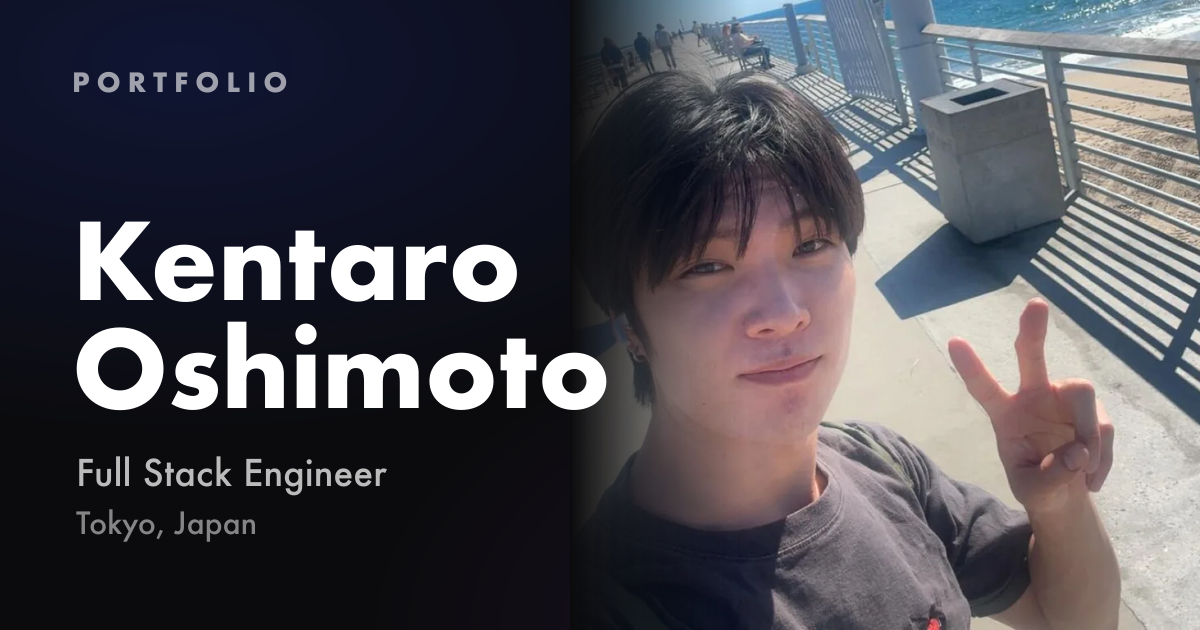
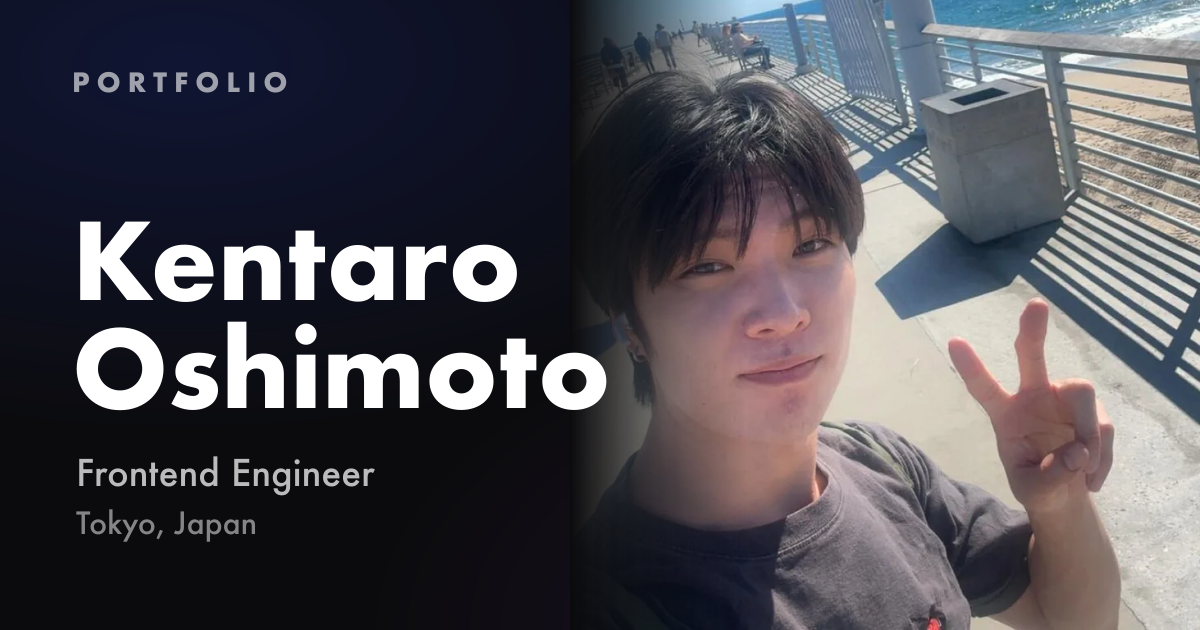
content: position as a frontend engineer expanding into full-stack; add the freelance work; WCAG note
Tagline, hero headline, bio (EN/JA), OG image text; Work album gets a Freelance track.

Changed region(s): [[0.0617, 0.7238, 0.3392, 0.7841]]

diff --git a/src/data/artist.ts b/src/data/artist.ts
@@ -4,14 +4,15 @@ import type { Artist } from './types';
 export const artist: Artist = {
   name: { en: 'Kentaro Oshimoto', ja: '押本 健太郎' },
   tagline: {
-    en: 'Full Stack Engineer · Tokyo, Japan',
-    ja: 'フルスタックエンジニア · 東京',
+    en: 'Frontend Engineer · Tokyo, Japan',
+    ja: 'フロントエンドエンジニア · 東京',
   },
   // 履歴書の Professional Summary をもとにした紹介文（電話番号などの連絡先は載せない）
   bio: {
-    en: 'Bilingual English–Japanese engineer born in the United States and based in Tokyo. After 3+ years building production web applications at a Japanese web agency, I now work as a Full Stack Engineer, expanding into backend development (Node.js, REST APIs, relational databases, Docker) with AI-driven workflows. I have led end-to-end development on 10+ client projects across real estate, hospitality, healthcare and consumer brands, and mentored junior developers along the way.',
-    ja: '米国生まれ、東京在住の日英バイリンガルエンジニア。日本の Web 制作会社で 3 年以上、本番のウェブアプリケーションを開発し、現在はフルスタックエンジニアとして、AI 駆動のワークフローでバックエンド開発（Node.js、REST API、リレーショナルデータベース、Docker）へ領域を広げています。不動産・ホスピタリティ・ヘルスケア・コンシューマーブランドなど 10 件以上の案件を企画から公開まで担当し、若手の育成にも携わってきました。',
+    en: "Bilingual English–Japanese frontend engineer born in the United States and based in Tokyo. After 3+ years building production web applications with React, Next.js and TypeScript at a Japanese web agency, I'm now expanding into full-stack development as a Full Stack Engineer (Node.js, REST APIs, relational databases, Docker) with AI-driven workflows. I have led end-to-end development on 10+ client projects across real estate, hospitality, healthcare and consumer brands, with a focus on user experience, performance and accessibility, and mentored junior developers along the way.",
+    ja: 'アメリカ生まれ、東京在住の日英バイリンガルのフロントエンドエンジニアです。日本のウェブ制作会社で 3 年以上、React・Next.js・TypeScript を使った本番環境のウェブアプリケーションを開発してきました。現在はフルスタックエンジニアとして、AI を活用した開発ワークフローのもと、バックエンド（Node.js、REST API、リレーショナルデータベース、Docker）へと領域を広げています。不動産、ホスピタリティ、ヘルスケア、コンシューマーブランドなど 10 件以上の案件を、ユーザー体験・パフォーマンス・アクセシビリティを重視しながら企画から公開まで一貫して担当し、後輩の育成にも携わってきました。',
   },
+
   shelfBlurb: {
     en: 'About me: who I am, where I\'m from and what I do.',
     ja: '自己紹介：どんな人で、どこの出身で、何をしているか。',

diff --git a/src/data/albums.ts b/src/data/albums.ts
@@ -215,8 +215,28 @@ export const albums: Album[] = [
             ja: '2〜3 名の若手開発者に、コードレビューとベストプラクティスの勉強会でオンボーディングと育成を実施。',
           },
           {
-            en: 'Improved page load speed by up to 30%, set up SEO (meta, canonical, OGP) across client sites, and turned Figma, Photoshop and Adobe XD mockups into mobile-first pages.',
-            ja: 'ページ読み込み速度を最大 30% 改善し、クライアントサイト全体の SEO 設定（meta・canonical・OGP）を担当。Figma・Photoshop・Adobe XD のデザインをモバイルファーストのページに実装。',
+            en: 'Improved page load speed by up to 30%, set up SEO (meta, canonical, OGP) and accessibility (WCAG best practices) across client sites, and turned Figma, Photoshop and Adobe XD mockups into mobile-first pages.',
+            ja: 'ページ読み込み速度を最大 30% 改善し、クライアントサイト全体の SEO 設定（meta・canonical・OGP）とアクセシビリティ（WCAG のベストプラクティス）に対応。Figma・Photoshop・Adobe XD のデザインをモバイルファーストのページに実装。',
+          },
+        ],
+      },
+      {
+        slug: 'freelance',
+        title: { en: 'Freelance Web Engineer', ja: 'フリーランス（Web エンジニア）' },
+        meta: { en: 'Jan 2023 — May 2023', ja: '2023年1月 — 2023年5月' },
+        tags: ['React', 'TypeScript', 'Node.js', 'PostgreSQL', 'Firebase'],
+        description: {
+          en: 'Tokyo, Japan. Contract development of an e-commerce site and a restaurant website.',
+          ja: '東京。EC サイトとレストラン公式サイトの受託開発。',
+        },
+        bullets: [
+          {
+            en: 'E-commerce site for a jade jewelry store (team of 3 engineers and 1 designer): built product detail pages with React and TypeScript, and an add-to-cart API with Node.js and PostgreSQL connected through to checkout.',
+            ja: '翡翠ジュエリー EC サイト（エンジニア 3 名・デザイナー 1 名）。React・TypeScript で商品詳細ページを実装し、Node.js・PostgreSQL でカート追加 API を作成して、チェックアウトまでつなげました。',
+          },
+          {
+            en: 'Restaurant website renewal (solo): rebuilt a WordPress site in React, and built a reservation system with Node.js and Firebase, including an admin function for the owner to block out dates.',
+            ja: 'レストラン公式サイトのリニューアル（1 名で担当）。WordPress のサイトを React で作り直し、Node.js・Firebase で予約システムと、オーナーが予約不可日を設定できる管理機能を作りました。',
           },
         ],
       },

diff --git a/src/data/home.ts b/src/data/home.ts
@@ -41,9 +41,9 @@ interface HomeCopy {
  * TODO(owner): 見出し（headline）は仮です。好きな言葉に変えてください。
  */
 export const home: HomeCopy = {
-  eyebrow: { en: 'Full Stack Engineer · Tokyo, Japan', ja: 'フルスタックエンジニア · 東京' },
+  eyebrow: { en: 'Frontend Engineer · Tokyo, Japan', ja: 'フロントエンドエンジニア · 東京' },
   headline: {
-    line1: { en: 'FULL STACK', ja: 'フルスタック' },
+    line1: { en: 'FRONTEND', ja: 'フロントエンド' },
     line2: { en: 'ENGINEER', ja: 'エンジニア' },
     line3: { en: 'IN', ja: '東京で' },
     line3Accent: { en: 'TOKYO', ja: '開発。' },
